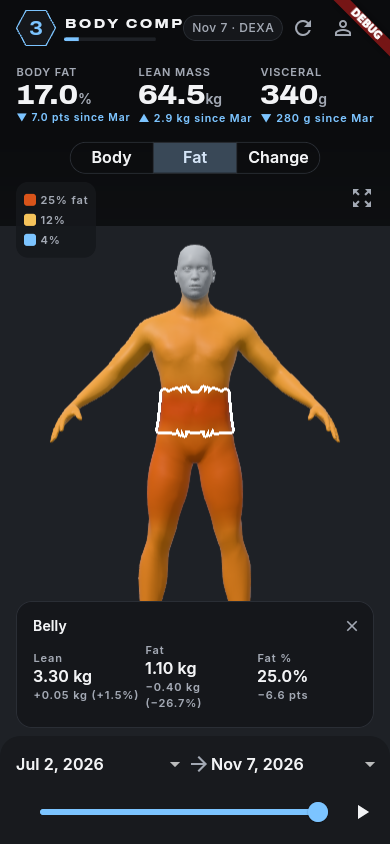
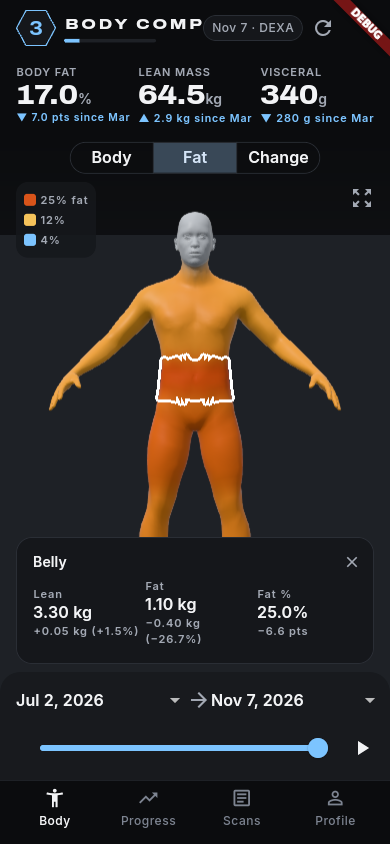
Add the bottom tab bar: Body, Progress, Scans, Profile
The signed-in app is now a StatefulShellRoute with the launch design's
tab bar. Body is home, Profile is the settings page (the header's
profile button is gone), and Progress and Scans show a short coming-soon
page until those screens are built. Each tab keeps its own stack;
tapping the current tab returns it to its first page.

Claude-Session: https://claude.ai/code/session_01881r6wStWWazdPF3GVtggV

diff --git a/app/lib/shell/app_shell.dart b/app/lib/shell/app_shell.dart
@@ -1,0 +1,136 @@
+import 'package:app_ui/app_ui.dart';
+import 'package:body_comp/l10n/l10n.dart';
+import 'package:go_router/go_router.dart';
+import 'package:material_ui/material_ui.dart';
+
+/// The signed-in app: one tab per branch of the router's shell route, with
+/// the tab bar from the launch design (Body, Progress, Scans, Profile).
+/// Each tab keeps its own navigation stack.
+class AppShell extends StatelessWidget {
+  const new(this.shell, {super.key});
+
+  final StatefulNavigationShell shell;
+
+  @override
+  Widget build(BuildContext context) {
+    final l10n = context.l10n;
+    return Scaffold(
+      body: shell,
+      bottomNavigationBar: _TabBar(
+        current: shell.currentIndex,
+        // Tapping the current tab again returns it to its first page.
+        onTap: (i) =>
+            shell.goBranch(i, initialLocation: i == shell.currentIndex),
+        tabs: [
+          (key: 'tab_body', icon: Icons.accessibility_new, label: l10n.tabBody),
+          (
+            key: 'tab_progress',
+            icon: Icons.trending_up,
+            label: l10n.tabProgress,
+          ),
+          (
+            key: 'tab_scans',
+            icon: Icons.article_outlined,
+            label: l10n.tabScans,
+          ),
+          (
+            key: 'tab_profile',
+            icon: Icons.person_outline,
+            label: l10n.tabProfile,
+          ),
+        ],
+      ),
+    );
+  }
+}
+
+typedef _Tab = ({String key, IconData icon, String label});
+
+class _TabBar extends StatelessWidget {
+  const new({required this.current, required this.onTap, required this.tabs});
+
+  final int current;
+  final ValueChanged<int> onTap;
+  final List<_Tab> tabs;
+
+  @override
+  Widget build(BuildContext context) {
+    final tokens = context.tokens;
+    final label = Theme.of(context).textTheme.labelMedium;
+    return DecoratedBox(
+      decoration: BoxDecoration(
+        color: tokens.background,
+        border: Border(top: BorderSide(color: tokens.surfaceRaised)),
+      ),
+      child: SafeArea(
+        top: false,
+        minimum: const EdgeInsets.only(bottom: AppSpacing.sm),
+        child: Padding(
+          padding: const EdgeInsets.symmetric(
+            horizontal: AppSpacing.sm,
+            vertical: AppSpacing.xs,
+          ),
+          child: Row(
+            children: [
+              for (final (i, tab) in tabs.indexed)
+                Expanded(
+                  child: _TabButton(
+                    key: Key(tab.key),
+                    tab: tab,
+                    selected: i == current,
+                    color: i == current ? tokens.textPrimary : tokens.textFaint,
+                    style: label,
+                    onTap: () => onTap(i),
+                  ),
+                ),
+            ],
+          ),
+        ),
+      ),
+    );
+  }
+}
+
+class _TabButton extends StatelessWidget {
+  const new({
+    required this.tab,
+    required this.selected,
+    required this.color,
+    required this.style,
+    required this.onTap,
+    super.key,
+  });
+
+  final _Tab tab;
+  final bool selected;
+  final Color color;
+  final TextStyle? style;
+  final VoidCallback onTap;
+
+  @override
+  Widget build(BuildContext context) => Semantics(
+    button: true,
+    selected: selected,
+    child: InkResponse(
+      onTap: onTap,
+      radius: 36,
+      child: ConstrainedBox(
+        constraints: const BoxConstraints(minHeight: 48),
+        child: Column(
+          mainAxisSize: MainAxisSize.min,
+          mainAxisAlignment: MainAxisAlignment.center,
+          children: [
+            Icon(tab.icon, size: 22, color: color),
+            const SizedBox(height: AppSpacing.xs),
+            Text(
+              tab.label,
+              maxLines: 1,
+              overflow: TextOverflow.ellipsis,
+              style: style?.copyWith(color: color),
+            ),
+          ],
+        ),
+      ),
+    ),
+  );
+}

diff --git a/app/lib/router/router.dart b/app/lib/router/router.dart
@@ -1,11 +1,14 @@
 import 'package:app_auth/app_auth.dart';
 import 'package:app_ui/app_ui.dart';
 import 'package:body_comp/home/home_page.dart';
+import 'package:body_comp/l10n/l10n.dart';
 import 'package:body_comp/onboarding/onboarding_page.dart';
 import 'package:body_comp/profile/domain/profile.dart';
 import 'package:body_comp/profile/presentation/profile_providers.dart';
 import 'package:body_comp/profile/presentation/profile_setup_page.dart';
 import 'package:body_comp/settings/settings_page.dart';
+import 'package:body_comp/shell/app_shell.dart';
+import 'package:body_comp/shell/coming_soon_page.dart';
 import 'package:flutter_riverpod/flutter_riverpod.dart';
 import 'package:go_router/go_router.dart';
 import 'package:material_ui/material_ui.dart';
@@ -15,6 +18,8 @@ abstract final class Routes {
   static const signIn = '/sign-in';
   static const profileSetup = '/profile-setup';
   static const home = '/';
+  static const progress = '/progress';
+  static const scans = '/scans';
   static const settings = '/settings';
   static const onboarding = '/onboarding';
 }
@@ -56,11 +61,27 @@ final routerProvider = Provider<GoRouter>((ref) {
         path: Routes.onboarding,
         builder: (_, _) => const OnboardingPage(),
       ),
-      GoRoute(
-        path: Routes.home,
-        builder: (_, _) => const HomePage(),
-        routes: [
-          GoRoute(path: 'settings', builder: (_, _) => const SettingsPage()),
+      StatefulShellRoute.indexedStack(
+        builder: (_, _, shell) => AppShell(shell),
+        branches: [
+          _tab(Routes.home, (_) => const HomePage()),
+          _tab(
+            Routes.progress,
+            (context) => ComingSoonPage(
+              title: context.l10n.tabProgress,
+              body: context.l10n.progressComingSoon,
+              icon: Icons.trending_up,
+            ),
+          ),
+          _tab(
+            Routes.scans,
+            (context) => ComingSoonPage(
+              title: context.l10n.tabScans,
+              body: context.l10n.scansComingSoon,
+              icon: Icons.article_outlined,
+            ),
+          ),
+          _tab(Routes.settings, (_) => const SettingsPage()),
         ],
       ),
     ],
@@ -68,6 +89,11 @@ final routerProvider = Provider<GoRouter>((ref) {
   ref.onDispose(router.dispose);
   return router;
 });
+
+StatefulShellBranch _tab(String path, WidgetBuilder page) =>
+    StatefulShellBranch(
+      routes: [GoRoute(path: path, builder: (context, _) => page(context))],
+    );
 
 /// Pure redirect rule, unit tested on its own.
 String? appRedirect({

diff --git a/app/test/shell/app_shell_test.dart b/app/test/shell/app_shell_test.dart
@@ -1,0 +1,54 @@
+import 'package:app_auth/app_auth.dart';
+import 'package:body_comp/home/home_page.dart';
+import 'package:body_comp/settings/settings_page.dart';
+import 'package:body_comp/shell/coming_soon_page.dart';
+import 'package:body_mapping/fixtures.dart';
+import 'package:flutter_test/flutter_test.dart';
+import 'package:material_ui/material_ui.dart';
+
+import '../helpers/pump_app.dart';
+
+void main() {
+  const user = AuthUser(id: 'u1', email: 'a@b.co');
+
+  for (final brightness in Brightness.values) {
+    testWidgets('tabs switch between body, progress, scans and profile '
+        '(${brightness.name})', (tester) async {
+      tester.platformDispatcher.platformBrightnessTestValue = brightness;
+      addTearDown(tester.platformDispatcher.clearPlatformBrightnessTestValue);
+      await tester.pumpApp(user: user, scans: sampleTimeline);
+      expect(find.byType(HomePage), findsOne);
+      for (final key in ['tab_body', 'tab_progress', 'tab_scans']) {
+        expect(find.byKey(Key(key)), findsOne);
+      }
+
+      await tester.tap(find.byKey(const Key('tab_progress')));
+      await tester.pumpAndSettle();
+      expect(find.text('Progress'), findsNWidgets(2));
+      expect(find.byType(ComingSoonPage), findsOne);
+
+      await tester.tap(find.byKey(const Key('tab_scans')));
+      await tester.pumpAndSettle();
+      expect(find.text('Scans'), findsNWidgets(2));
+
+      await tester.tap(find.byKey(const Key('tab_profile')));
+      await tester.pumpAndSettle();
+      expect(find.byType(SettingsPage), findsOne);
+
+      await tester.tap(find.byKey(const Key('tab_body')));
+      await tester.pumpAndSettle();
+      expect(find.byType(HomePage), findsOne);
+      expect(tester.takeException(), isNull);
+    });
+  }
+
+  testWidgets('the tab bar fits a small phone', (tester) async {
+    tester.view
+      ..physicalSize = const Size(320 * 2, 568 * 2)
+      ..devicePixelRatio = 2;
+    addTearDown(tester.view.reset);
+    await tester.pumpApp(user: user, scans: sampleTimeline, tallPhone: false);
+    expect(tester.takeException(), isNull);
+    expect(find.byKey(const Key('tab_profile')), findsOne);
+  });
+}

diff --git a/app/test/app/app_test.dart b/app/test/app/app_test.dart
@@ -50,7 +50,7 @@ void main() {
 
     testWidgets('settings signs out back to sign-in', (tester) async {
       final fakes = await tester.pumpApp(user: user);
-      await tester.tap(find.byKey(const Key('home_settings')));
+      await tester.tap(find.byKey(const Key('tab_profile')));
       await tester.pumpAndSettle();
       expect(find.byType(SettingsPage), findsOneWidget);
       expect(find.text('a@b.co'), findsOneWidget);
@@ -65,7 +65,7 @@ void main() {
       tester,
     ) async {
       final fakes = await tester.pumpApp(user: user);
-      await tester.tap(find.byKey(const Key('home_settings')));
+      await tester.tap(find.byKey(const Key('tab_profile')));
       await tester.pumpAndSettle();
 
       await tester.tap(find.byKey(const Key('settings_delete')));
@@ -82,11 +82,9 @@ void main() {
       expect(find.byType(SignInPage), findsOneWidget);
     });
 
-    testWidgets('home opens settings with the body style toggle', (
-      tester,
-    ) async {
+    testWidgets('the Profile tab has the body style toggle', (tester) async {
       await tester.pumpApp(user: user);
-      await tester.tap(find.byKey(const Key('home_settings')));
+      await tester.tap(find.byKey(const Key('tab_profile')));
       await tester.pumpAndSettle();
       expect(find.byType(BodyStyleSetting), findsOneWidget);
     });

diff --git a/app/lib/shell/coming_soon_page.dart b/app/lib/shell/coming_soon_page.dart
@@ -1,0 +1,45 @@
+import 'package:app_ui/app_ui.dart';
+import 'package:material_ui/material_ui.dart';
+
+/// A tab whose screen is not built yet: its title and one line on what it
+/// will show.
+class ComingSoonPage extends StatelessWidget {
+  const new({
+    required this.title,
+    required this.body,
+    required this.icon,
+    super.key,
+  });
+
+  final String title;
+  final String body;
+  final IconData icon;
+
+  @override
+  Widget build(BuildContext context) {
+    final tokens = context.tokens;
+    final textTheme = Theme.of(context).textTheme;
+    return Scaffold(
+      appBar: AppBar(title: Text(title)),
+      body: Center(
+        child: SingleChildScrollView(
+          padding: const EdgeInsets.all(AppSpacing.lg),
+          child: Column(
+            mainAxisSize: MainAxisSize.min,
+            children: [
+              Icon(icon, size: 56, color: tokens.lean),
+              const SizedBox(height: AppSpacing.md),
+              Text(
+                body,
+                textAlign: TextAlign.center,
+                style: textTheme.bodyLarge?.copyWith(
+                  color: tokens.textSecondary,
+                ),
+              ),
+            ],
+          ),
+        ),
+      ),
+    );
+  }
+}

diff --git a/app/integration_test/app_test.dart b/app/integration_test/app_test.dart
@@ -48,7 +48,7 @@ void main() {
     await settle();
     expect(find.byType(HomePage), findsOneWidget);
 
-    await tester.tap(find.byKey(const Key('home_settings')));
+    await tester.tap(find.byKey(const Key('tab_profile')));
     await settle();
     await tester.tap(find.byKey(const Key('settings_signOut')));
     await settle();
@@ -58,7 +58,7 @@ void main() {
     await fillCredentials();
     expect(find.byType(HomePage), findsOneWidget);
 
-    await tester.tap(find.byKey(const Key('home_settings')));
+    await tester.tap(find.byKey(const Key('tab_profile')));
     await settle();
     await tester.scrollUntilVisible(
       find.byKey(const Key('settings_delete')),

diff --git a/app/lib/home/home_page.dart b/app/lib/home/home_page.dart
@@ -188,12 +188,6 @@ class _Header extends StatelessWidget {
                   )
                 : const Icon(Icons.refresh),
           ),
-          IconButton(
-            key: const Key('home_settings'),
-            tooltip: l10n.settingsTitle,
-            icon: const Icon(Icons.person_outline),
-            onPressed: () => context.push(Routes.settings),
-          ),
         ],
       ),
     );
